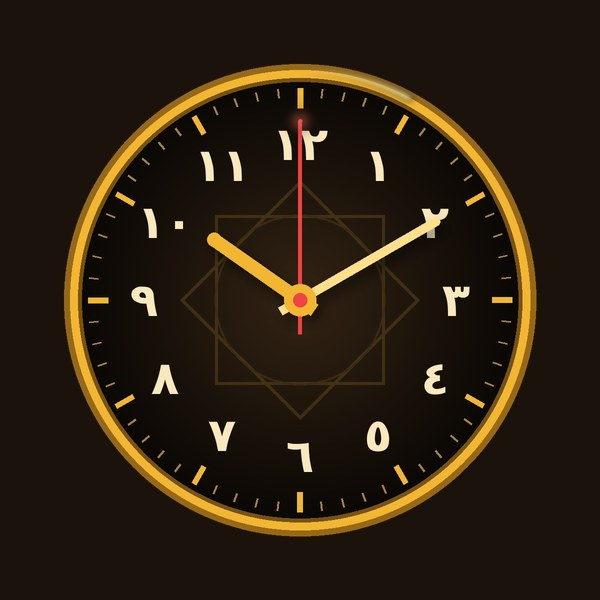
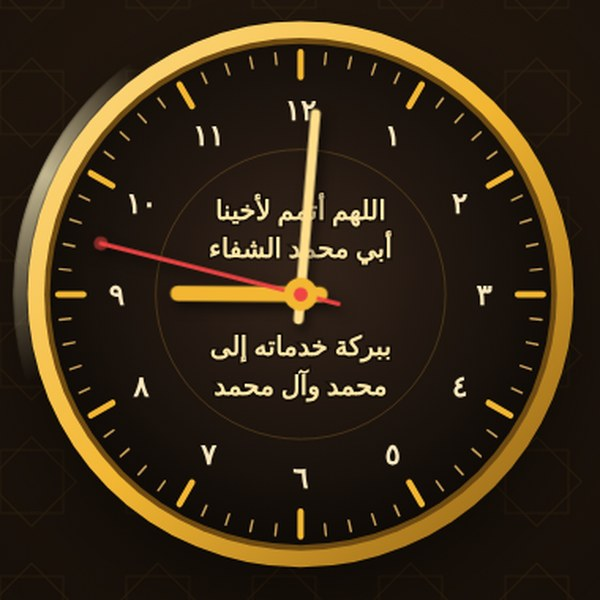
الساعة: دعاء الشفاء في وسط القرص والصلاة على محمد وآل محمد عنوانًا
Claude-Session: https://claude.ai/code/session_01XyRoqphtB9b1BjxJKmNNqS

Changed region(s): [[0.0, 0.03, 0.96, 0.96], [0.69, 0.6, 0.78, 0.66], [0.3, 0.33, 0.33, 0.36]]

diff --git a/apps/clock/index.html b/apps/clock/index.html
@@ -4,15 +4,15 @@
 <meta charset="utf-8">
 <meta name="viewport" content="width=device-width, initial-scale=1">
 <meta name="description" content="ساعة عقارب ذهبية حيّة بالأرقام العربية والتاريخ الهجري والميلادي">
-<meta property="og:title" content="ساعة العقارب الذهبية">
-<meta property="og:description" content="ساعة عقارب حيّة بالوقت الحقيقي — almaateeq.com">
-<meta property="og:image" content="https://almaateeq.com/apps/clock/preview.jpg">
+<meta property="og:title" content="اللهم صل على محمد وآل محمد">
+<meta property="og:description" content="اللهم أتمم لأخينا أبي محمد الشفاء ببركة خدماته إلى محمد وآل محمد">
+<meta property="og:image" content="https://almaateeq.com/apps/clock/preview.jpg?v=2">
 <meta property="og:url" content="https://almaateeq.com/clock">
 <meta property="og:type" content="website">
 <link rel="icon" href="tray_icon.png">
-<title>ساعة العقارب الذهبية</title>
+<title>اللهم صل على محمد وآل محمد</title>
 <link rel="preconnect" href="https://fonts.googleapis.com">
-<link href="https://fonts.googleapis.com/css2?family=El+Messiri:wght@600;700&family=Tajawal:wght@500;700&display=swap" rel="stylesheet">
+<link href="https://fonts.googleapis.com/css2?family=Amiri:wght@700&family=El+Messiri:wght@600;700&family=Tajawal:wght@500;700&display=swap" rel="stylesheet">
 <style>
   :root{--gold:#F2B632;--gold-l:#ffde8c;--bg:#0b0805;--red:#EF4444;--ease-out:cubic-bezier(0.23,1,0.32,1)}
   *{box-sizing:border-box;-webkit-tap-highlight-color:transparent}
@@ -28,7 +28,7 @@
   .laser.b{top:78%;animation-delay:3.5s;background:linear-gradient(90deg,transparent,#38BDF8,transparent);filter:drop-shadow(0 0 6px #38BDF8)}
   .laser.a{top:18%}
   @keyframes sweep{to{transform:translateX(220vw)}}
-  h1{font-family:"El Messiri",serif;font-weight:700;margin:0;font-size:clamp(22px,5vw,32px);color:var(--gold);
+  h1{font-family:Amiri,serif;font-weight:700;text-align:center;margin:0;font-size:clamp(22px,5vw,32px);color:var(--gold);
     animation:rise .7s var(--ease-out) both}
   .wrap{position:relative;width:min(84vw,62dvh,440px);aspect-ratio:1;animation:pop .9s var(--ease-out) .15s both}
   .ring{position:absolute;inset:-6px;border-radius:50%;
@@ -40,17 +40,20 @@
   @keyframes pop{from{opacity:0;transform:scale(.9)}to{opacity:1;transform:none}}
   @keyframes rise{from{opacity:0;transform:translateY(12px)}to{opacity:1;transform:none}}
   svg{width:100%;height:100%;display:block;filter:drop-shadow(0 18px 30px rgba(0,0,0,.55))}
+  .dua text{font-family:Amiri,serif;font-weight:700;font-size:19px;fill:#ffe7a8;paint-order:stroke;stroke:#0b0805;stroke-width:3px;stroke-opacity:.6}
+  .dua{animation:glow 3.2s ease-in-out infinite}
+  @keyframes glow{0%,100%{filter:drop-shadow(0 0 2px rgba(242,182,50,.35))}50%{filter:drop-shadow(0 0 7px rgba(242,182,50,.75))}}
   .num{font-family:Tajawal,sans-serif;font-weight:700;font-size:21px;fill:#fae8be}
   .digital{font-family:Tajawal;font-weight:700;font-size:clamp(20px,5vw,26px);font-variant-numeric:tabular-nums;
     letter-spacing:0;padding:8px 22px;border-radius:14px;background:rgba(20,14,9,.75);border:1px solid rgba(242,182,50,.45);
     animation:rise .7s var(--ease-out) .3s both}
   .date{font-size:15px;color:#d8c49a;animation:rise .7s var(--ease-out) .4s both;text-align:center}
-  @media (prefers-reduced-motion:reduce){.laser,.ring{animation:none;opacity:0}h1,.wrap,.digital,.date{animation:none}}
+  @media (prefers-reduced-motion:reduce){.laser,.ring{animation:none;opacity:0}.dua{animation:none}h1,.wrap,.digital,.date{animation:none}}
 </style>
 </head>
 <body>
 <div class="laser a"></div><div class="laser b"></div>
-<h1>ساعة العقارب الذهبية</h1>
+<h1>اللهم صل على محمد وآل محمد</h1>
 <div class="wrap">
   <div class="ring"></div>
   <svg viewBox="0 0 400 400" aria-label="ساعة بعقارب">
@@ -61,9 +64,12 @@
     <circle cx="200" cy="200" r="196" fill="url(#rim)"/>
     <circle cx="200" cy="200" r="184" fill="#6e4a12"/>
     <circle cx="200" cy="200" r="180" fill="url(#face)"/>
-    <g fill="none" stroke="#F2B632" stroke-opacity=".16" stroke-width="1.5">
-      <rect x="145" y="145" width="110" height="110"/><rect x="145" y="145" width="110" height="110" transform="rotate(45 200 200)"/>
-      <circle cx="200" cy="200" r="70"/>
+    <circle cx="200" cy="200" r="104" fill="none" stroke="#F2B632" stroke-opacity=".22" stroke-width="1"/>
+    <g class="dua" text-anchor="middle">
+      <text x="200" y="146">اللهم أتمم لأخينا</text>
+      <text x="200" y="174">أبي محمد الشفاء</text>
+      <text x="200" y="244">ببركة خدماته إلى</text>
+      <text x="200" y="272">محمد وآل محمد</text>
     </g>
     <g id="ticks"></g><g id="nums"></g>
     <g style="filter:drop-shadow(3px 5px 4px rgba(0,0,0,.6))">
